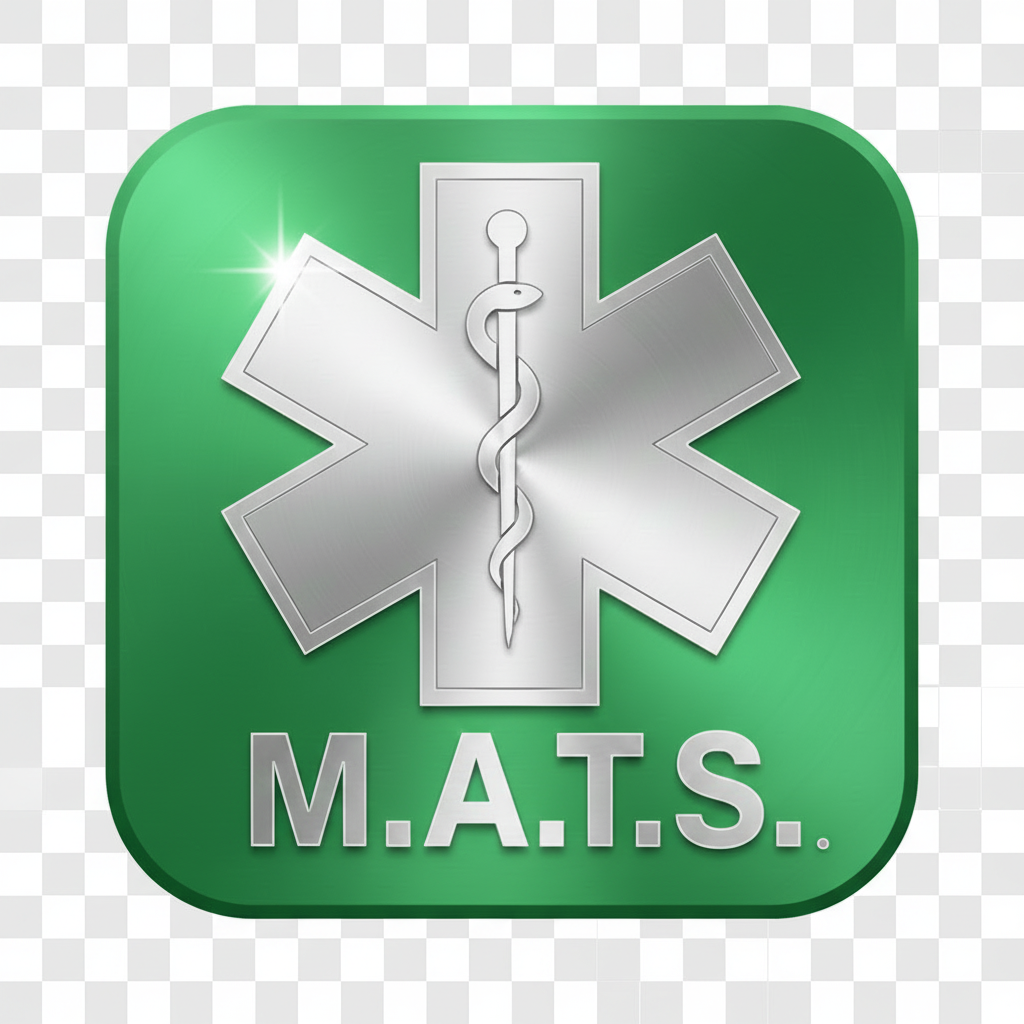
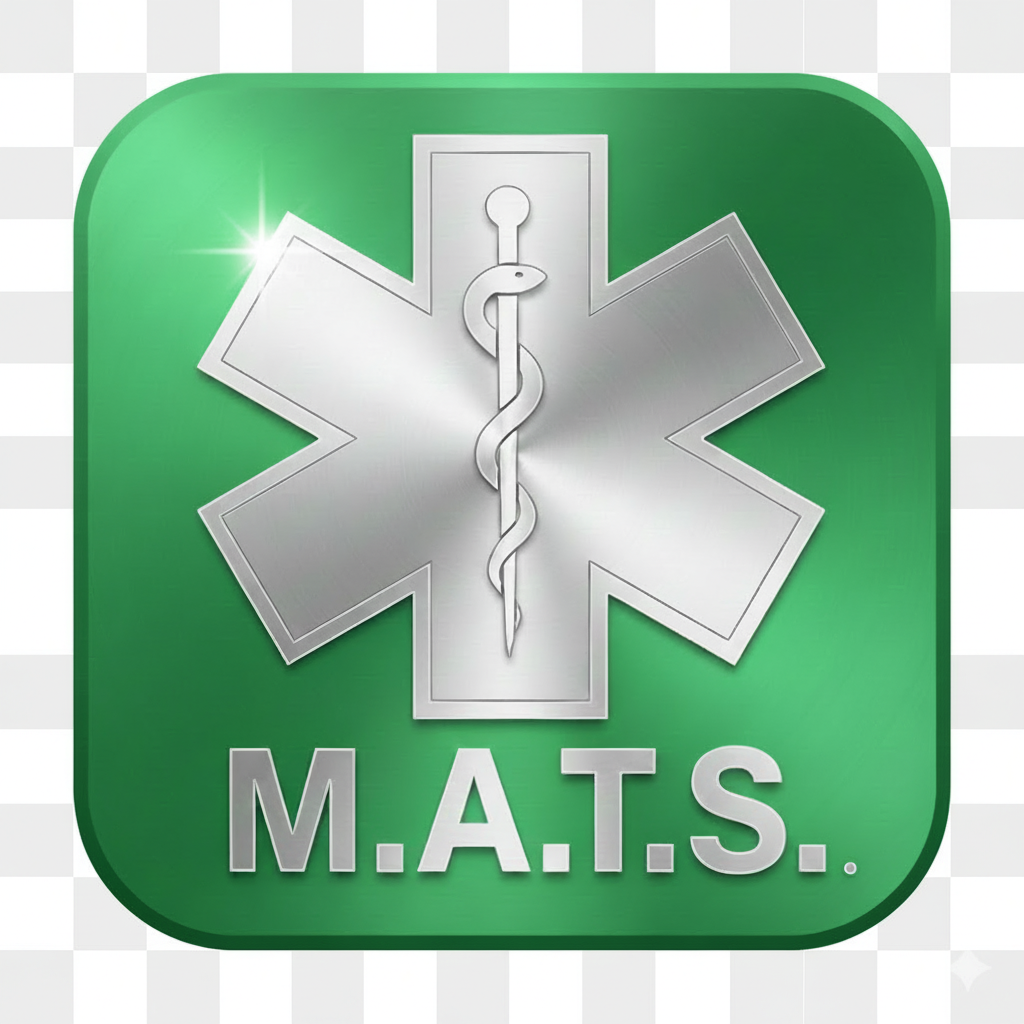
Changes

diff --git a/src/components/SplashScreen.tsx b/src/components/SplashScreen.tsx
@@ -1,0 +1,129 @@
+import { useState, useEffect } from "react";
+import matsLogo from "@/assets/mats-logo-transparent.png";
+
+interface SplashScreenProps {
+  onComplete: () => void;
+  minDuration?: number;
+}
+
+export function SplashScreen({ onComplete, minDuration = 2500 }: SplashScreenProps) {
+  const [phase, setPhase] = useState<"logo" | "text" | "fadeout">("logo");
+
+  useEffect(() => {
+    // Phase 1: Logo appears and pulses
+    const textTimer = setTimeout(() => setPhase("text"), 800);
+    
+    // Phase 2: Fade out and complete
+    const fadeTimer = setTimeout(() => setPhase("fadeout"), minDuration - 500);
+    
+    // Complete after animation
+    const completeTimer = setTimeout(onComplete, minDuration);
+
+    return () => {
+      clearTimeout(textTimer);
+      clearTimeout(fadeTimer);
+      clearTimeout(completeTimer);
+    };
+  }, [onComplete, minDuration]);
+
+  return (
+    <div 
+      className={`fixed inset-0 z-[100] flex flex-col items-center justify-center bg-background transition-opacity duration-500 ${
+        phase === "fadeout" ? "opacity-0" : "opacity-100"
+      }`}
+    >
+      {/* Animated background gradient */}
+      <div className="absolute inset-0 bg-gradient-to-br from-primary/5 via-background to-primary/10" />
+      
+      {/* Glow effect behind logo */}
+      <div 
+        className={`absolute w-64 h-64 rounded-full bg-primary/20 blur-3xl transition-all duration-1000 ${
+          phase !== "logo" ? "scale-150 opacity-30" : "scale-100 opacity-50"
+        }`}
+      />
+      
+      {/* Logo container with animations */}
+      <div className="relative z-10 flex flex-col items-center gap-6">
+        {/* Animated logo */}
+        <div 
+          className={`transition-all duration-700 ease-out ${
+            phase === "logo" 
+              ? "scale-90 opacity-0" 
+              : "scale-100 opacity-100"
+          }`}
+          style={{
+            animation: phase !== "logo" ? "pulse-glow 2s ease-in-out infinite" : "none"
+          }}
+        >
+          <img
+            src={matsLogo}
+            alt="M.A.T.S. Logo"
+            className="w-32 h-32 md:w-40 md:h-40 drop-shadow-2xl"
+            style={{
+              filter: "drop-shadow(0 0 20px rgba(22, 163, 74, 0.4))"
+            }}
+          />
+        </div>
+
+        {/* Animated text */}
+        <div 
+          className={`flex flex-col items-center gap-2 transition-all duration-500 delay-300 ${
+            phase === "text" || phase === "fadeout"
+              ? "opacity-100 translate-y-0" 
+              : "opacity-0 translate-y-4"
+          }`}
+        >
+          <h1 className="text-2xl md:text-3xl font-bold tracking-wider text-foreground">
+            COMUNIDAD <span className="text-primary">EX SOS</span>
+          </h1>
+          <p className="text-sm text-muted-foreground">
+            Sistema de Respuesta a Emergencias
+          </p>
+        </div>
+
+        {/* Loading indicator */}
+        <div 
+          className={`flex gap-1 transition-opacity duration-300 ${
+            phase === "fadeout" ? "opacity-0" : "opacity-100"
+          }`}
+        >
+          {[0, 1, 2].map((i) => (
+            <div
+              key={i}
+              className="w-2 h-2 rounded-full bg-primary"
+              style={{
+                animation: "bounce 1s ease-in-out infinite",
+                animationDelay: `${i * 0.15}s`
+              }}
+            />
+          ))}
+        </div>
+      </div>
+
+      {/* Custom animations */}
+      <style>{`
+        @keyframes pulse-glow {
+          0%, 100% {
+            transform: scale(1);
+            filter: drop-shadow(0 0 20px rgba(22, 163, 74, 0.4));
+          }
+          50% {
+            transform: scale(1.02);
+            filter: drop-shadow(0 0 30px rgba(22, 163, 74, 0.6));
+          }
+        }
+        
+        @keyframes bounce {
+          0%, 100% {
+            transform: translateY(0);
+            opacity: 0.5;
+          }
+          50% {
+            transform: translateY(-6px);
+            opacity: 1;
+          }
+        }
+      `}</style>
+    </div>
+  );
+}

diff --git a/src/App.tsx b/src/App.tsx
@@ -1,4 +1,4 @@
-import { useState } from 'react';
+import { useState, useEffect } from 'react';
 import { BrowserRouter, Routes, Route, Navigate } from 'react-router-dom';
 import { Toaster } from "@/components/ui/toaster";
 import { Toaster as Sonner } from "@/components/ui/sonner";
@@ -17,18 +17,37 @@ import { SettingsScreen } from '@/pages/SettingsScreen';
 import LandingPage from '@/pages/LandingPage';
 import { InstallPrompt } from '@/components/InstallPrompt';
 import { UpdatePrompt } from '@/components/UpdatePrompt';
+import { SplashScreen } from '@/components/SplashScreen';
 import { useAppState } from '@/hooks/useRealtime';
 import type { UserRole } from '@/types';
 
 const queryClient = new QueryClient();
 
 function AppContent() {
+  const [showSplash, setShowSplash] = useState(true);
   const [isAuthenticated, setIsAuthenticated] = useState(false);
   const [activeTab, setActiveTab] = useState<TabId>('map');
   const [userRole] = useState<UserRole>('RESCATISTA');
 
   const handleAuthComplete = () => setIsAuthenticated(true);
   const handleLogout = () => setIsAuthenticated(false);
+
+  // Check if splash was shown recently (within session)
+  useEffect(() => {
+    const splashShown = sessionStorage.getItem('splash-shown');
+    if (splashShown) {
+      setShowSplash(false);
+    }
+  }, []);
+
+  const handleSplashComplete = () => {
+    setShowSplash(false);
+    sessionStorage.setItem('splash-shown', 'true');
+  };
+
+  if (showSplash) {
+    return <SplashScreen onComplete={handleSplashComplete} />;
+  }
 
   if (!isAuthenticated) {
     return <AuthGate onAuthComplete={handleAuthComplete} />;

diff --git a/src/components/MatsLogo.tsx b/src/components/MatsLogo.tsx
@@ -1,6 +1,6 @@
-// M.A.T.S. Logo Component using uploaded image
+// M.A.T.S. Logo Component using transparent background image
 import React from 'react';
-import matsLogo from '@/assets/mats-logo.png';
+import matsLogo from '@/assets/mats-logo-transparent.png';
 
 interface MatsLogoProps {
   size?: number;
